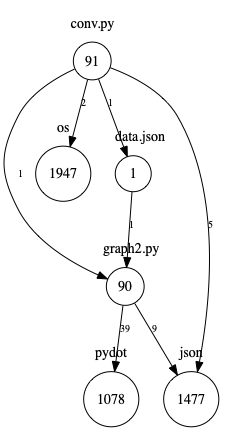
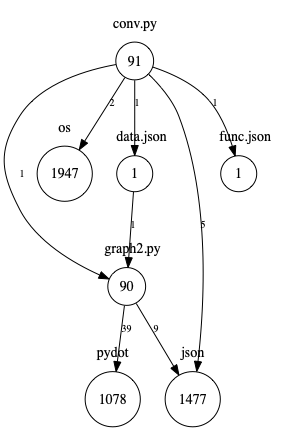
last changes

diff --git a/graph2.py b/graph2.py
@@ -34,6 +34,8 @@ def drawGraph():
 
     cluster_6=pydot.Cluster('djs',label='data.json', style="filled",color="white")
     cluster_6.add_node(pydot.Node('djso', label='1', shape="circle", style="filled", fillcolor="white"))
+    cluster_7=pydot.Cluster('fjs',label='func.json', style="filled",color="white")
+    cluster_7.add_node(pydot.Node('fjs', label='1', shape="circle", style="filled", fillcolor="white"))
 
     graph1.add_subgraph(cluster_1)
     graph1.add_subgraph(cluster_2)
@@ -41,6 +43,7 @@ def drawGraph():
     graph1.add_subgraph(cluster_4)
     graph1.add_subgraph(cluster_5)
     graph1.add_subgraph(cluster_6)
+    graph1.add_subgraph(cluster_7)
 
     graph1.add_edge(pydot.Edge("co", "jso",label=datastore['conv.py']['json'], fontsize="10.0"))
     graph1.add_edge(pydot.Edge("co", "os",label=datastore['conv.py']['os'], fontsize="10.0"))
@@ -49,6 +52,7 @@ def drawGraph():
     graph1.add_edge(pydot.Edge("co", "djso",label='1', fontsize="10.0"))
     graph1.add_edge(pydot.Edge("djso", "gr",label='1', fontsize="10.0"))
     graph1.add_edge(pydot.Edge("co", "gr",label='1', fontsize="10.0"))
+    graph1.add_edge(pydot.Edge("co", "fjs",label='1', fontsize="10.0"))
 
     graph1.write_png('graf.png')
 
